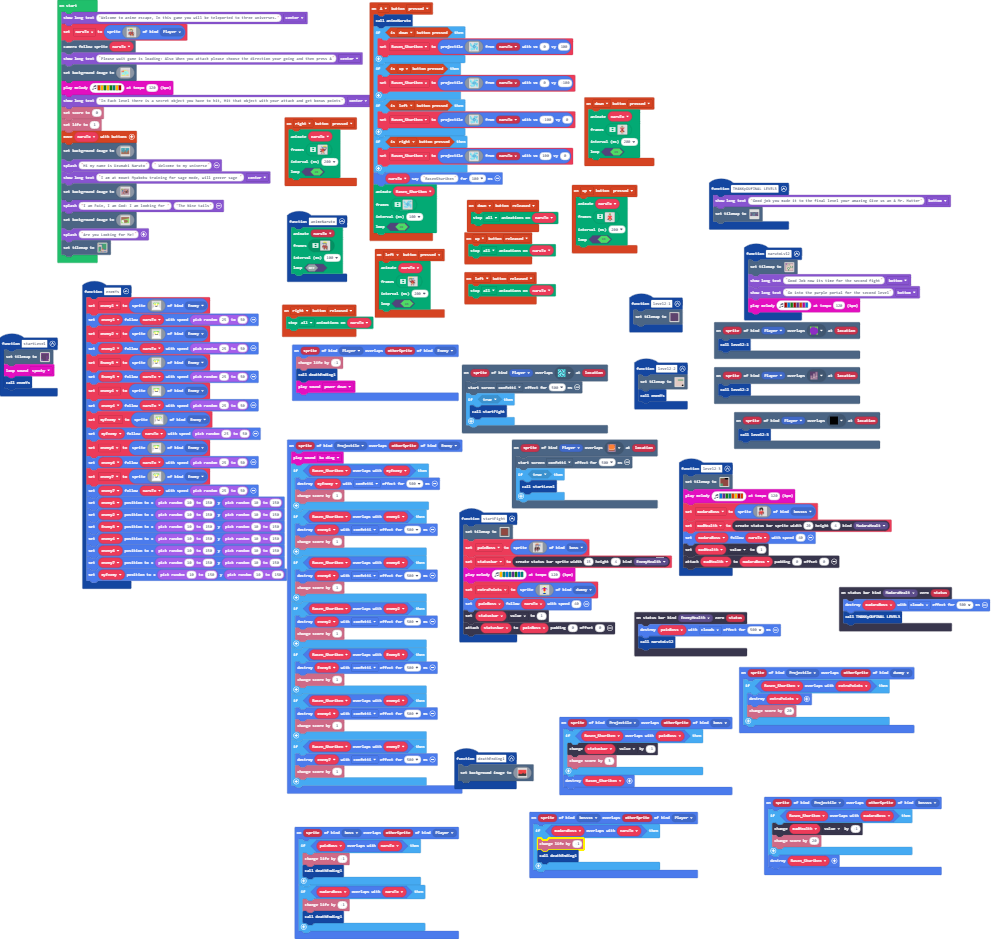
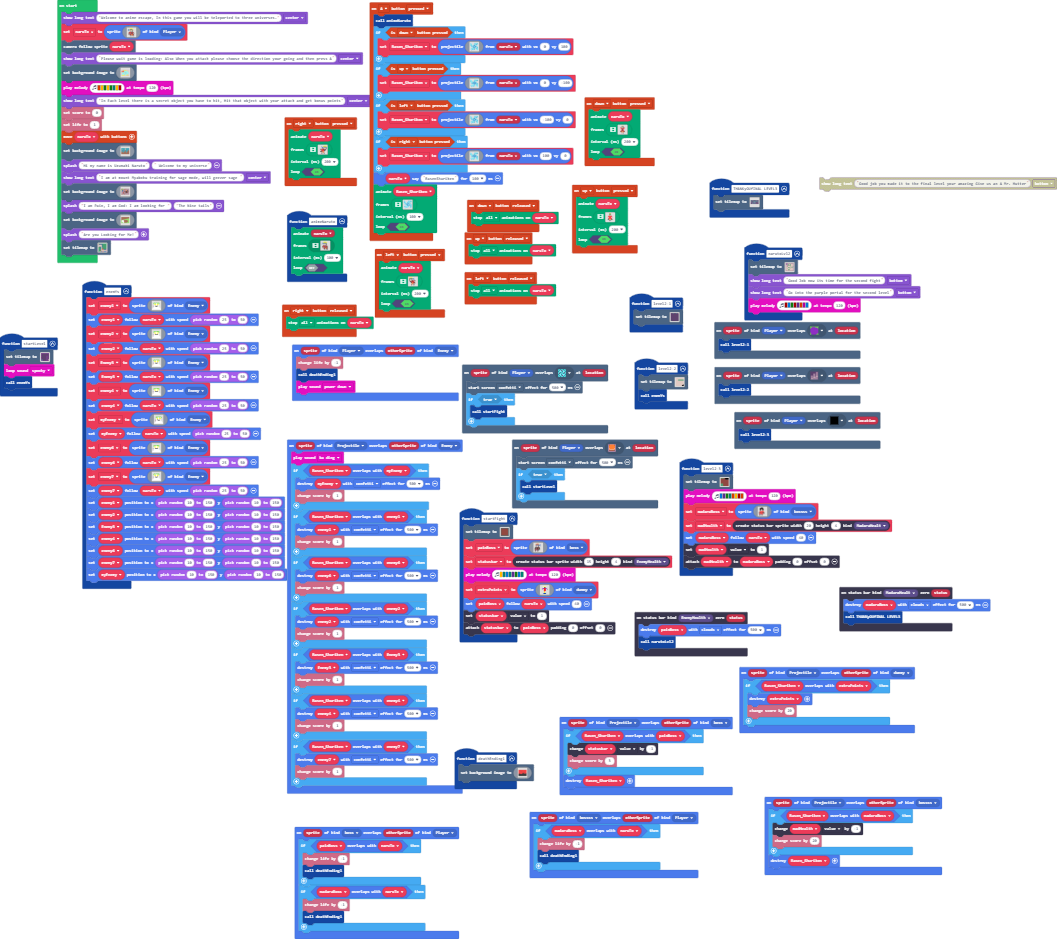
Update main.blocks, main.ts

diff --git a/main.ts b/main.ts
@@ -157,7 +157,6 @@ function enemYs () {
     myEnemy.setPosition(randint(10, 150), randint(10, 150))
 }
 function THANKyOUfINAL_LEVEL3 () {
-    game.showLongText("Good job you made it to the final level your amazing Give us an A Mr. Hutter", DialogLayout.Bottom)
     tiles.setTilemap(tilemap`level34`)
 }
 controller.A.onEvent(ControllerButtonEvent.Pressed, function () {
